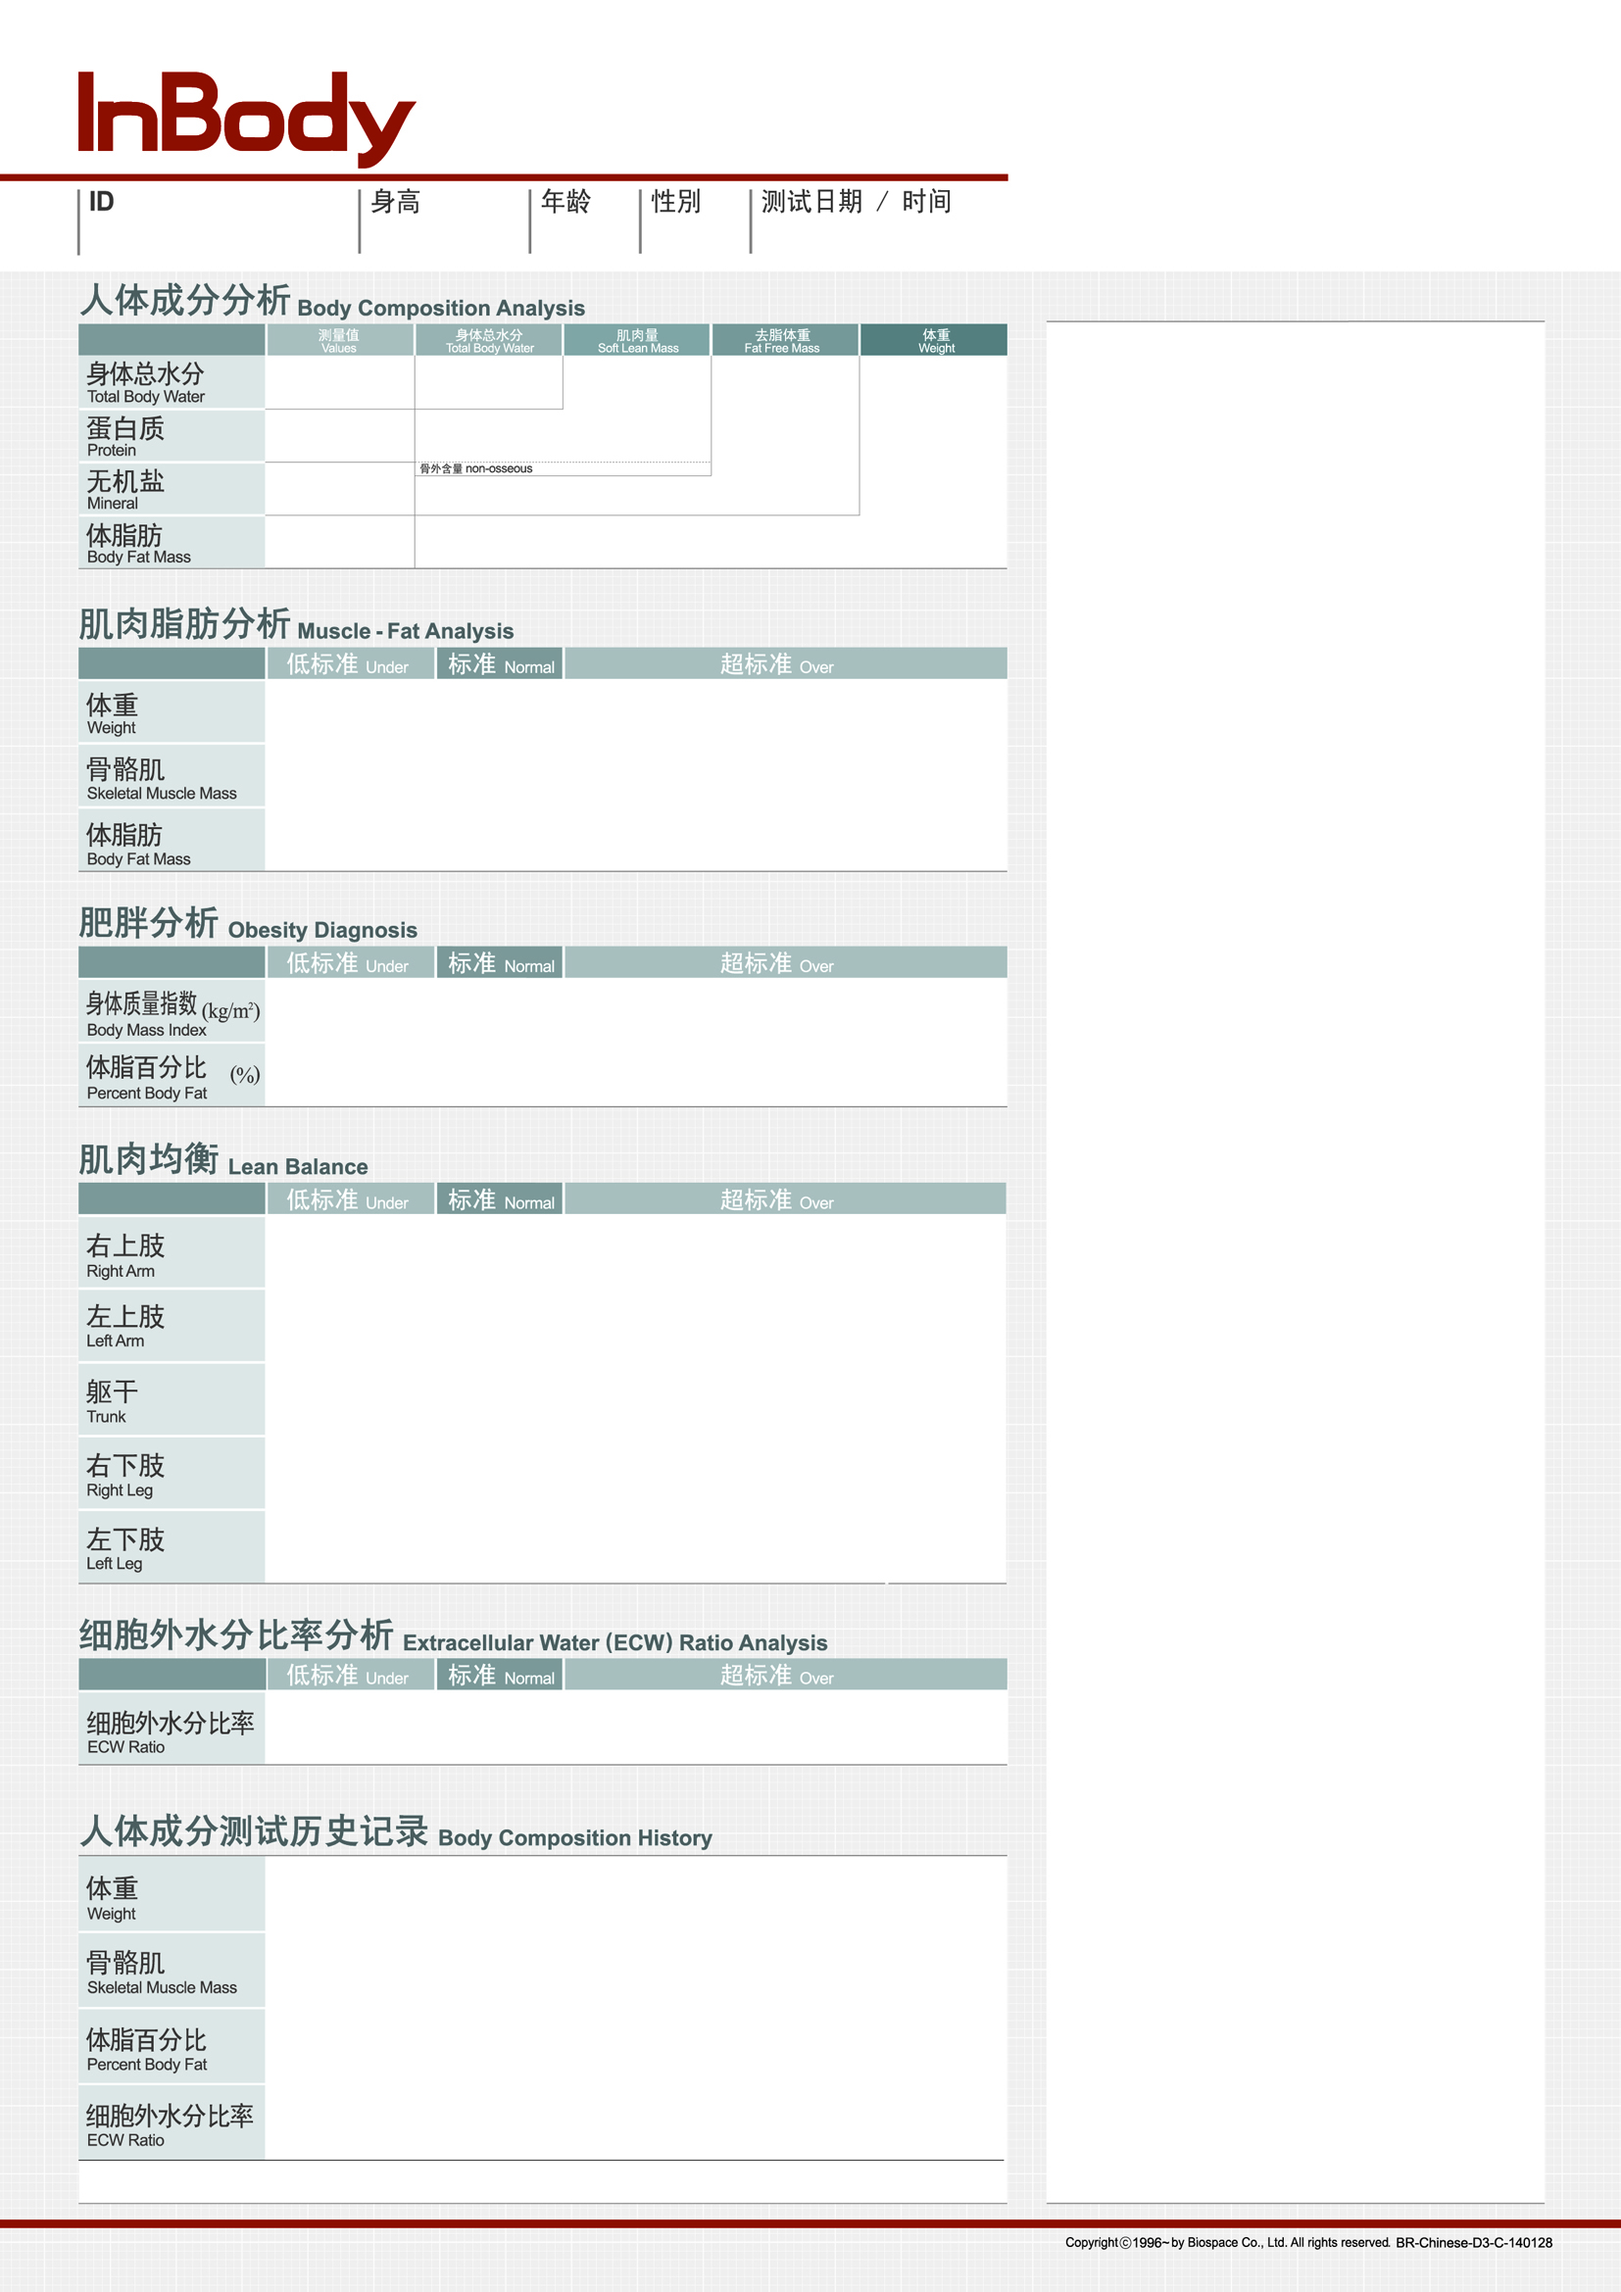
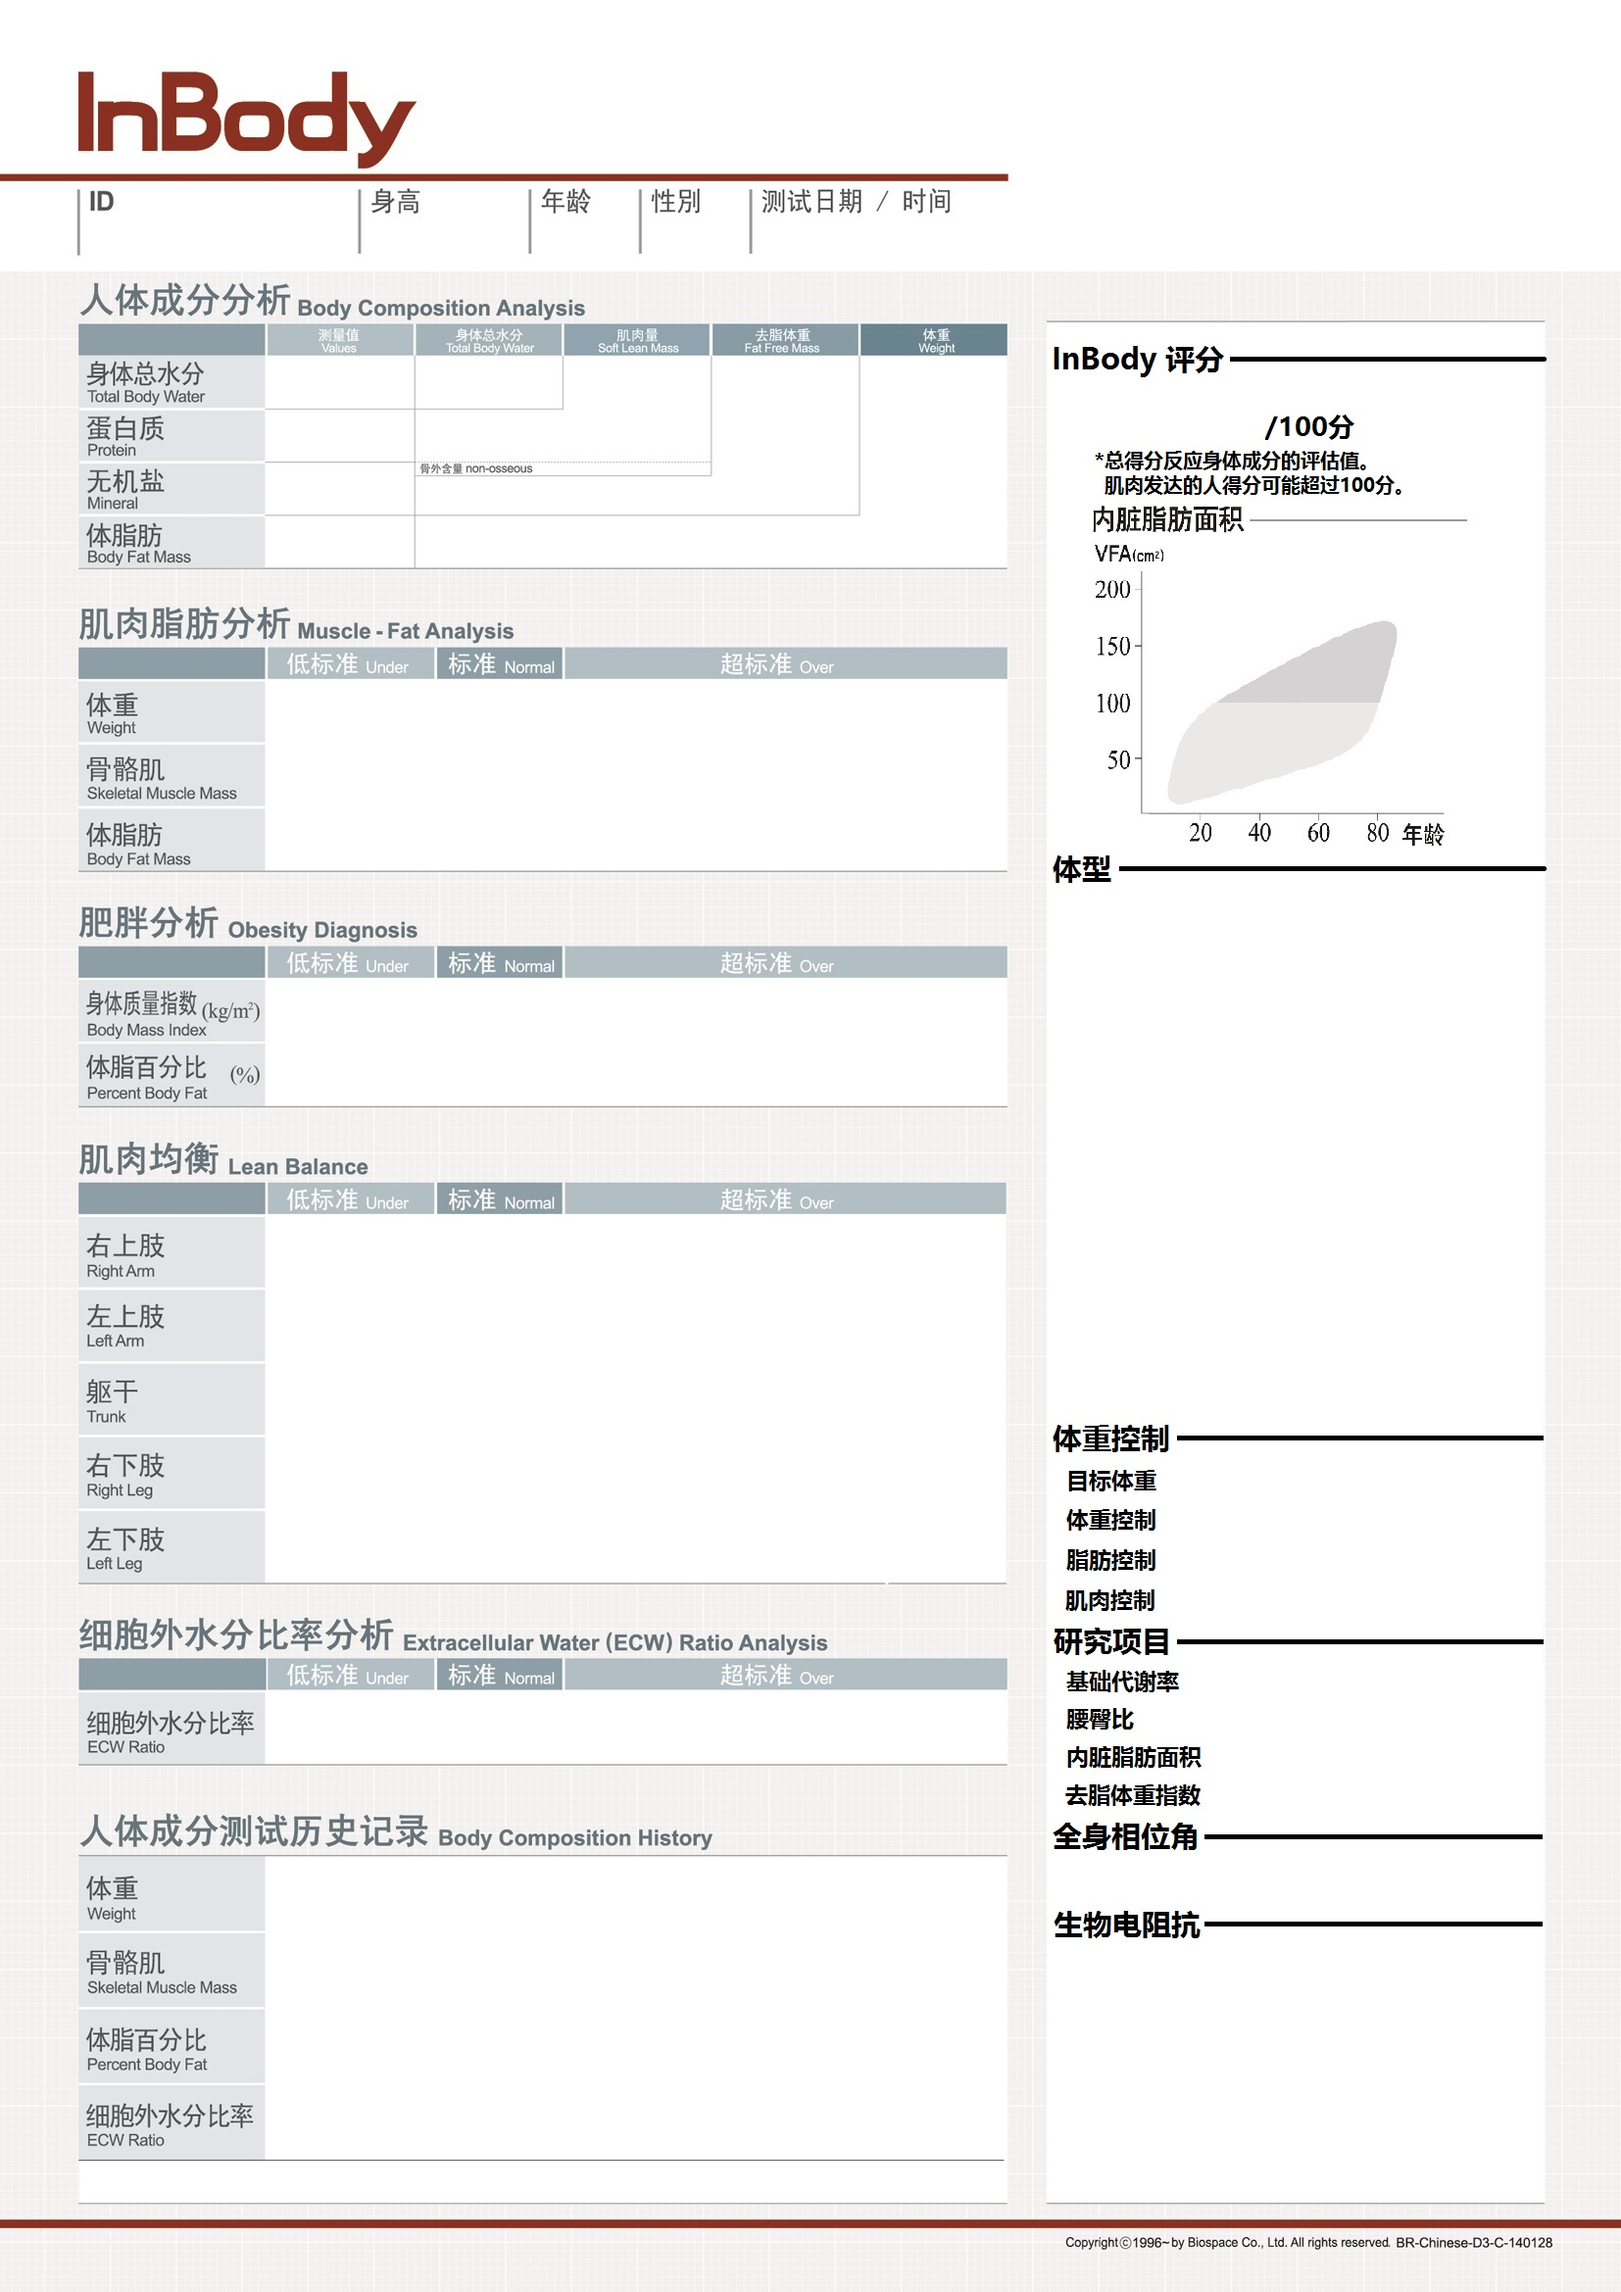
1

diff --git a/cnis/common/inbody/770/770.js b/cnis/common/inbody/770/770.js
@@ -102,7 +102,7 @@ inbody770.createPrintPage = function () {
     //LODOP.SET_PRINT_PAGESIZE(0,0,0,getSelectedPageSize());
     LODOP.SET_PRINT_PAGESIZE(util.printerSetting.Orient, util.printerSetting.PageWidth, util.printerSetting.PageHeigth, util.printerSetting.PageName);
 
-    LODOP.ADD_PRINT_SETUP_BKIMG("<img border='0' src='../通用模板.jpg'>");
+    LODOP.ADD_PRINT_SETUP_BKIMG("<img border='0' src='../通用模板.jpg?v=2'>");
     LODOP.SET_SHOW_MODE("BKIMG_WIDTH","210mm");
     LODOP.SET_SHOW_MODE("BKIMG_HEIGHT","297mm");
     LODOP.SET_SHOW_MODE("BKIMG_IN_PREVIEW",true);
@@ -191,57 +191,22 @@ inbody770.createPrintPage = function () {
     LODOP.ADD_PRINT_TEXT(842,leftMargin + w,150,20,inbody770.report[103].ItemValue); //细胞外水分比率分析 值
 
     //右边栏
-    LODOP.ADD_PRINT_TEXT(163,514,100,20,"Inbody 评分");
-    LODOP.ADD_PRINT_LINE(171,596,172,757,0,1);
+    LODOP.ADD_PRINT_TEXT(197,585,100,20,inbody770.patient.HealthScore); //分值
+    LODOP.SET_PRINT_STYLEA(0,"FontSize",18.5);
 
-    LODOP.ADD_PRINT_TEXT(190,584,100,20,inbody770.patient.HealthScore); //分值
+    //体重控制
+    LODOP.ADD_PRINT_TEXT(720,621,100,20,inbody770.report[204].ItemValue + " kg"); //目标体重
+    LODOP.ADD_PRINT_TEXT(740,621,100,20,inbody770.report[205].ItemValue + " kg"); //体重控制
+    LODOP.ADD_PRINT_TEXT(760,621,100,20,inbody770.report[206].ItemValue + " kg"); //脂肪控制
+    LODOP.ADD_PRINT_TEXT(780,621,100,20,inbody770.report[207].ItemValue + " kg"); //肌肉控制
 
+    //研究项目
+    LODOP.ADD_PRINT_TEXT(819,621,100,20,inbody770.report[28].ItemValue + " kcal"); //基础代谢率
+    LODOP.ADD_PRINT_TEXT(839,621,142,20,inbody770.report[25].ItemValue + " （" + inbody770.report[162].ItemValue + "~" + inbody770.report[163].ItemValue + ")"); //腰臀比
+    LODOP.ADD_PRINT_TEXT(859,621,100,20,inbody770.report[30].ItemValue + " c㎡"); //内脏脂肪面积
+    var itemValue = inbody770.report[20].ItemValue / Math.pow(inbody770.report[4].ItemValue / 100,2)
+    LODOP.ADD_PRINT_TEXT(879,621,100,20,itemValue.toFixed(2) + " kg/㎡"); //去脂体重指数 去脂体重/身高平方
 
-    // LODOP.ADD_PRINT_TEXT(338,227,50,20,inbody770.toFixed2(1));
-    // LODOP.ADD_PRINT_TEXT(363,227,50,20,inbody770.toFixed2(12));
-    // LODOP.ADD_PRINT_TEXT(387,226,50,20,inbody770.toFixed2(6));
-    // LODOP.ADD_PRINT_TEXT(414,226,50,20,inbody770.toFixed2(16));
-    // LODOP.ADD_PRINT_TEXT(443,226,100,20,inbody770.toFixed2(15));
-    // LODOP.ADD_PRINT_TEXT(339,301,100,20,inbody770.range(78, 77));
-    // LODOP.ADD_PRINT_TEXT(364,301,100,20,inbody770.range(80, 79));
-    // LODOP.ADD_PRINT_TEXT(388,300,100,20,inbody770.range(91, 92));
-    // LODOP.ADD_PRINT_TEXT(415,300,100,20,inbody770.range(84, 83));
-    // LODOP.ADD_PRINT_TEXT(444,300,100,20,inbody770.range(82, 81));
-    // LODOP.ADD_PRINT_TEXT(518,227,50,20,inbody770.toFixed2(18));
-    // LODOP.ADD_PRINT_TEXT(544,227,50,20,inbody770.toFixed2(19));
-    // LODOP.ADD_PRINT_TEXT(568,226,50,20,inbody770.toFixed2(20));
-    // LODOP.ADD_PRINT_TEXT(594,226,50,20,inbody770.toFixed2(21));
-    // LODOP.ADD_PRINT_TEXT(623,226,50,20,inbody770.toFixed2(22));
-    // LODOP.ADD_PRINT_TEXT(519,301,100,20,inbody770.range(130, 131));
-    // LODOP.ADD_PRINT_TEXT(545,301,100,20,inbody770.range(130, 131));
-    // LODOP.ADD_PRINT_TEXT(569,300,100,20,inbody770.range(132, 133));
-    // LODOP.ADD_PRINT_TEXT(595,300,100,20,inbody770.range(134, 135));
-    // LODOP.ADD_PRINT_TEXT(624,300,100,20,inbody770.range(134, 135));
-    // LODOP.ADD_PRINT_TEXT(183,169,50,20,"L");
-    // LODOP.ADD_PRINT_TEXT(203,169,50,20,"L");
-    // LODOP.ADD_PRINT_TEXT(224,169,50,20,"kg");
-    // LODOP.ADD_PRINT_TEXT(246,168,50,20,"kg");
-    // LODOP.ADD_PRINT_TEXT(267,168,50,20,"kg");
-    // LODOP.ADD_PRINT_TEXT(338,168,50,20,"kg");
-    // LODOP.ADD_PRINT_TEXT(363,168,50,20,"kg");
-    // LODOP.ADD_PRINT_TEXT(387,167,50,20,"kg");
-    // LODOP.ADD_PRINT_TEXT(414,167,50,20,"%");
-    // LODOP.ADD_PRINT_TEXT(443,167,100,20,"kg/m²");
-    // LODOP.ADD_PRINT_TEXT(519,168,50,20,"kg");
-    // LODOP.ADD_PRINT_TEXT(545,168,50,20,"kg");
-    // LODOP.ADD_PRINT_TEXT(569,167,50,20,"kg");
-    // LODOP.ADD_PRINT_TEXT(595,167,50,20,"kg");
-    // LODOP.ADD_PRINT_TEXT(624,167,50,20,"kg");
-    // LODOP.ADD_PRINT_SHAPE(4,338,385,inbody770.rangeWidth(1, 78, 77),12,0,1,"#808080");
-    // LODOP.ADD_PRINT_SHAPE(4,362,385,inbody770.rangeWidth(12, 80, 79),12,0,1,"#808080");
-    // LODOP.ADD_PRINT_SHAPE(4,386,385,inbody770.rangeWidth(6, 91, 92),12,0,1,"#808080");
-    // LODOP.ADD_PRINT_SHAPE(4,412,385,inbody770.rangeWidth(16, 84, 83),12,0,1,"#808080");
-    // LODOP.ADD_PRINT_SHAPE(4,441,385,inbody770.rangeWidth(15, 82, 81),12,0,1,"#808080");
-    // LODOP.ADD_PRINT_SHAPE(4,517,385,inbody770.rangeWidth(18, 130, 131),12,0,1,"#808080");
-    // LODOP.ADD_PRINT_SHAPE(4,543,385,inbody770.rangeWidth(19, 130, 131),12,0,1,"#808080");
-    // LODOP.ADD_PRINT_SHAPE(4,567,385,inbody770.rangeWidth(20, 132, 133),12,0,1,"#808080");
-    // LODOP.ADD_PRINT_SHAPE(4,593,385,inbody770.rangeWidth(21, 134, 135),12,0,1,"#808080");
-    // LODOP.ADD_PRINT_SHAPE(4,621,385,inbody770.rangeWidth(22, 134, 135),12,0,1,"#808080");
     // var dzk = inbody770.loadDZk();
     // LODOP.ADD_PRINT_HTM("174.84mm","5.77mm","131.05mm","85.99mm", dzk);
 }
